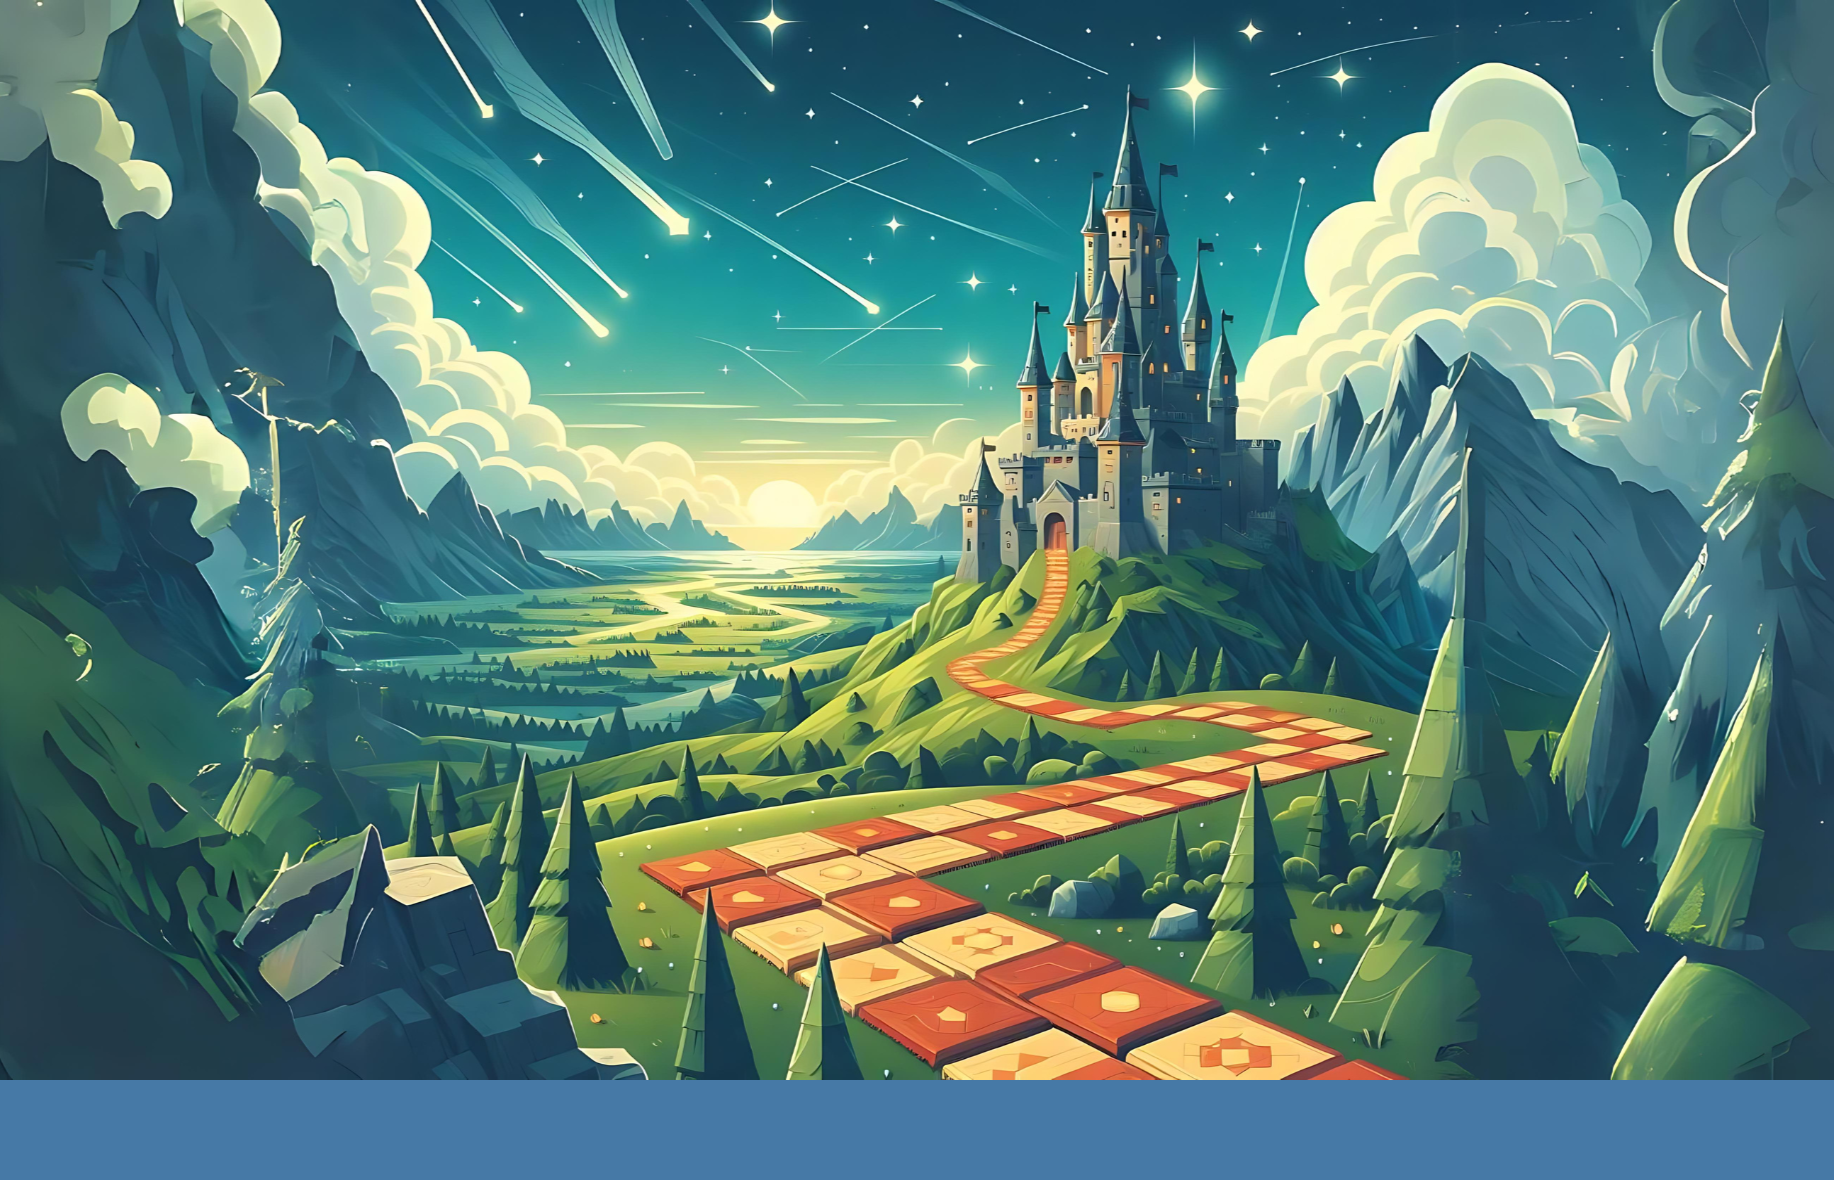
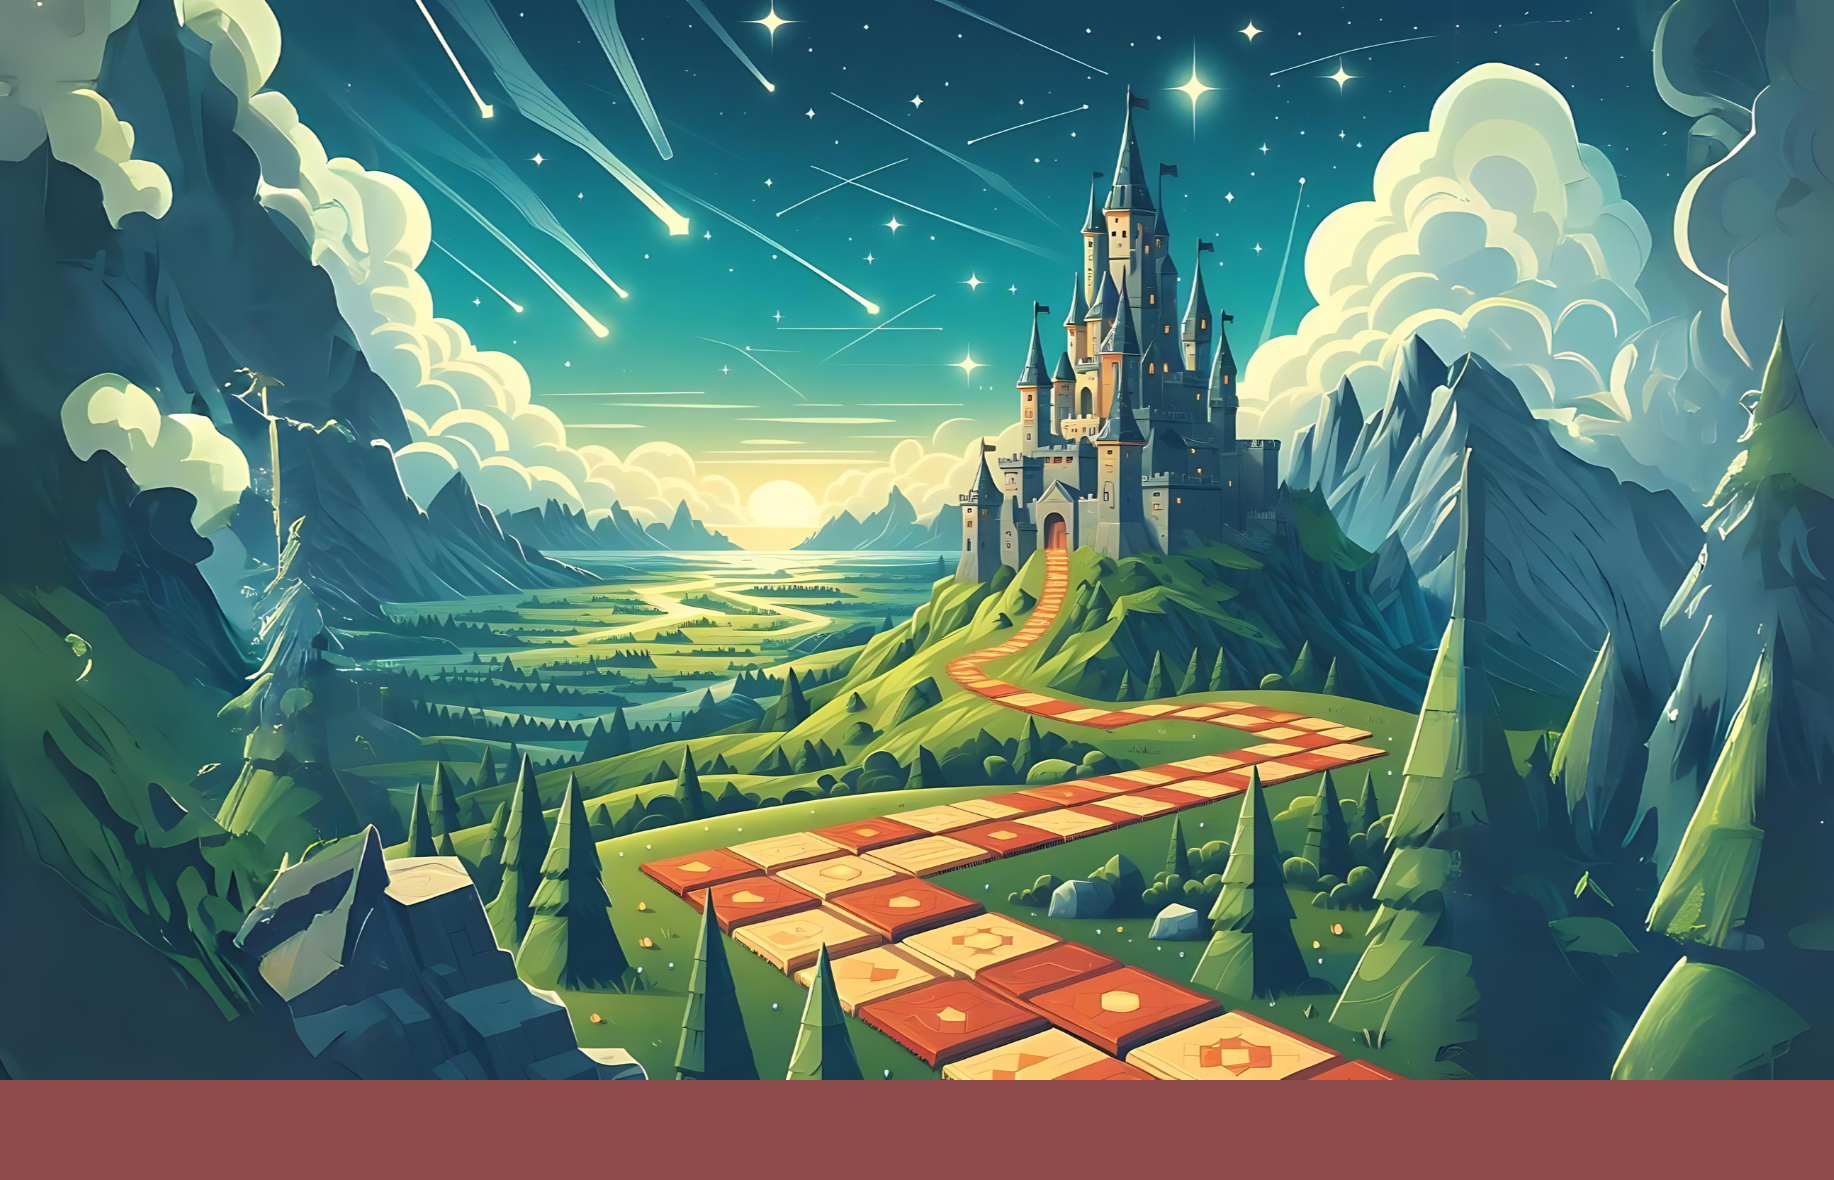
change wallpaper and aestethic for index

Changed region(s): [[0.0, 0.9153, 1.0, 1.0]]

diff --git a/client/styles/index.css b/client/styles/index.css
@@ -1,13 +1,13 @@
 * { box-sizing: border-box; }
 
-html { min-height: 100dvh; }
+html { min-height: 100dvh; background-color: #8C4A4A; }
 
 body {
   background-image: url("../images/wallpaper.png");
   background-position: top;
   background-repeat: no-repeat;
   background-size: cover;
-  min-height: 50dvh; 
+  min-height: 50dvh;
 }
 
 .flex-container {
@@ -20,10 +20,16 @@ body {
 .header { flex: 1; }
 
 .footer {
-  padding-top: 10px; 
+  padding-top: 30px;
+  padding-bottom: 10px; 
   flex: 0.5; 
   text-align: center;
-  background-color: #4679A6;
+  background-color: #8C4A4A;
+  color: black;
+}
+
+a {
+  color: black !important;
 }
 
 .flex-container > div { width: 100%; }
@@ -37,7 +43,6 @@ body {
 }
 
 .body {
-  margin-top: 10px;
   flex: 6;
   display: flex;
   align-items: center;
@@ -45,9 +50,10 @@ body {
 }
 
 .rect {
-  min-height: 450px;
-  height: 70%;
-  width: 700px;
+  height: 100%;
+  min-height: 380px; max-height: 415px;
+  width: 50%;
+  min-width: 350px; max-width: 680px;
   display: flex;
   flex-direction: column;
   align-items: center;
@@ -57,7 +63,7 @@ body {
 
   opacity: 1;
   background-color: rgba(242, 239, 233, 0.6);
-  border-radius: 20px;
+  border-radius: 25px;
 }
 
 .rect .my-btn {
@@ -71,7 +77,10 @@ body {
   text-align: left;
 }
 
-.footer > * { font-weight: 500; font-size: 100% !important;}
+.footer > * { 
+  font-weight: 500; 
+  font-size: 96% !important;
+}
 
 #usernameFormInput {
   width: 60%;
@@ -115,7 +124,7 @@ body {
 .my-btn {
   min-width: 120px;
   font-size: 140%;
-  font-weight: 500;
+  font-weight: 900;
   color: white;
   text-overflow: ellipsis;
   word-wrap: break-word;
@@ -181,7 +190,8 @@ body {
 
 #roomJoinLabel {
   color: black;
-  font-size: 160%;
+  font-size: 180%;
+  font-weight: 800;
 }
 
 #joinContainer {

diff --git a/client/pages/index.html b/client/pages/index.html
@@ -28,14 +28,11 @@
     </div>
 
     <div class="footer">
-      <a href="cfs"> Carta forbice sasso </a>
-      <a href="memory"> Memory </a>
-      <a href="goose"> Goose </a>
-      <p class="small text"> Cosa aspetti ad iscriverti e a correre per la laurea? Chissà... potresti anche farcela &#129395 <br> Per iniziare l'avventura: </p>
+      <p class="small text"> Cosa aspetti ad iscriverti e a correre per la laurea? Chissà... potresti anche farcela!<br> Per iniziare l'avventura: </p>
       <ol class="list small text"> 
           <li> Scegli un nome utente e clicca sul pulsante <em> 'Scegli nome utente'. </em></li>
           <li> Clicca sul pulsante <em> 'Crea la stanza' </em> ed invia il codice ad un tuo amico! </li>
-          <li> Il tuo amico non dovrà fare altro che cliccare su <em> 'Unisciti ad una stanza'</em>, inserire il tuo codice e cliccare nuovamente su <em> 'Unisciti alla stanza'</em>.</li>
+          <li> Il tuo amico non dovrà fare altro che cliccare su <em> 'Unisciti ad una stanza'</em>, inserire il tuo codice e cliccare nuovamente su <em>'Unisciti alla stanza'</em>.</li>
       </ol>
       <p class="small text"> Sei curioso di come è stata realizzata questa web-app? La repository è <a href="https://github.com/layard32/SapienzaAdventure" target=”_blank”>pubblica</a>.</p>
     </div>

diff --git a/client/styles/text.css b/client/styles/text.css
@@ -1,6 +1,6 @@
 @import url('https://fonts.googleapis.com/css2?family=Roboto+Mono:ital,wght@0,100..700;1,100..700&display=swap');
 
-.text, p{ 
+.text, p { 
     font-family: Roboto Mono; 
     text-align: center;   
     word-wrap: break-word;
@@ -12,5 +12,5 @@
 }
   
 .secondary {
-  background-color: rgb(70, 121, 166) !important;
+  background-color: #4679a6 !important;
 }
